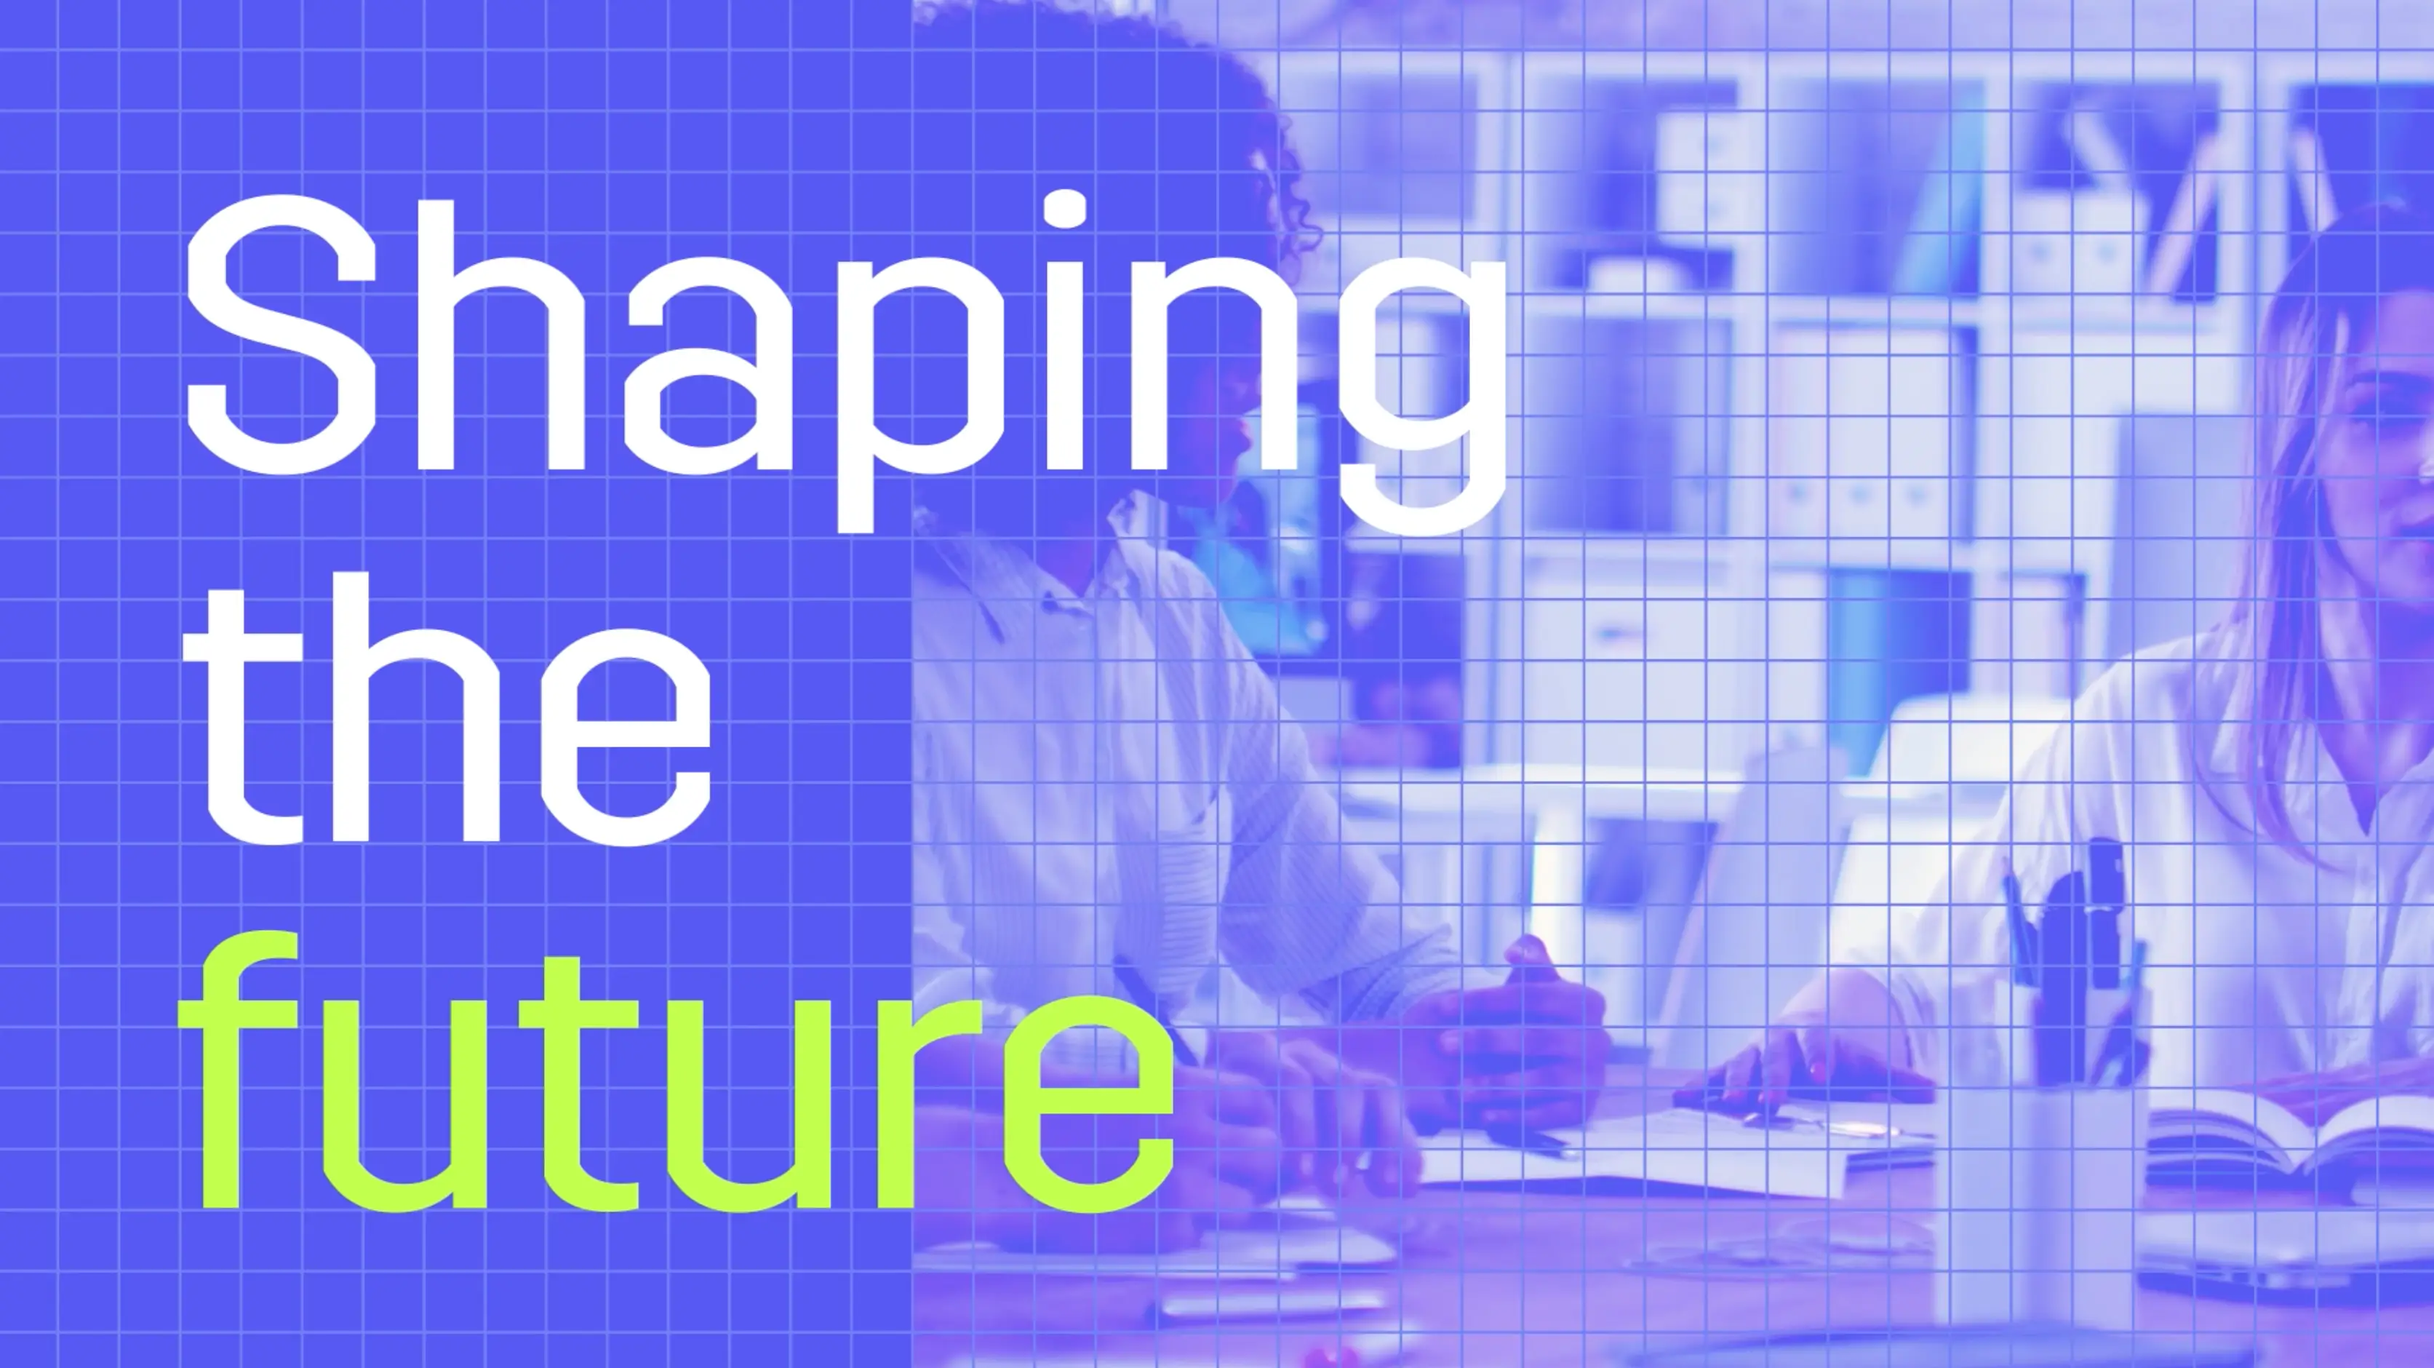
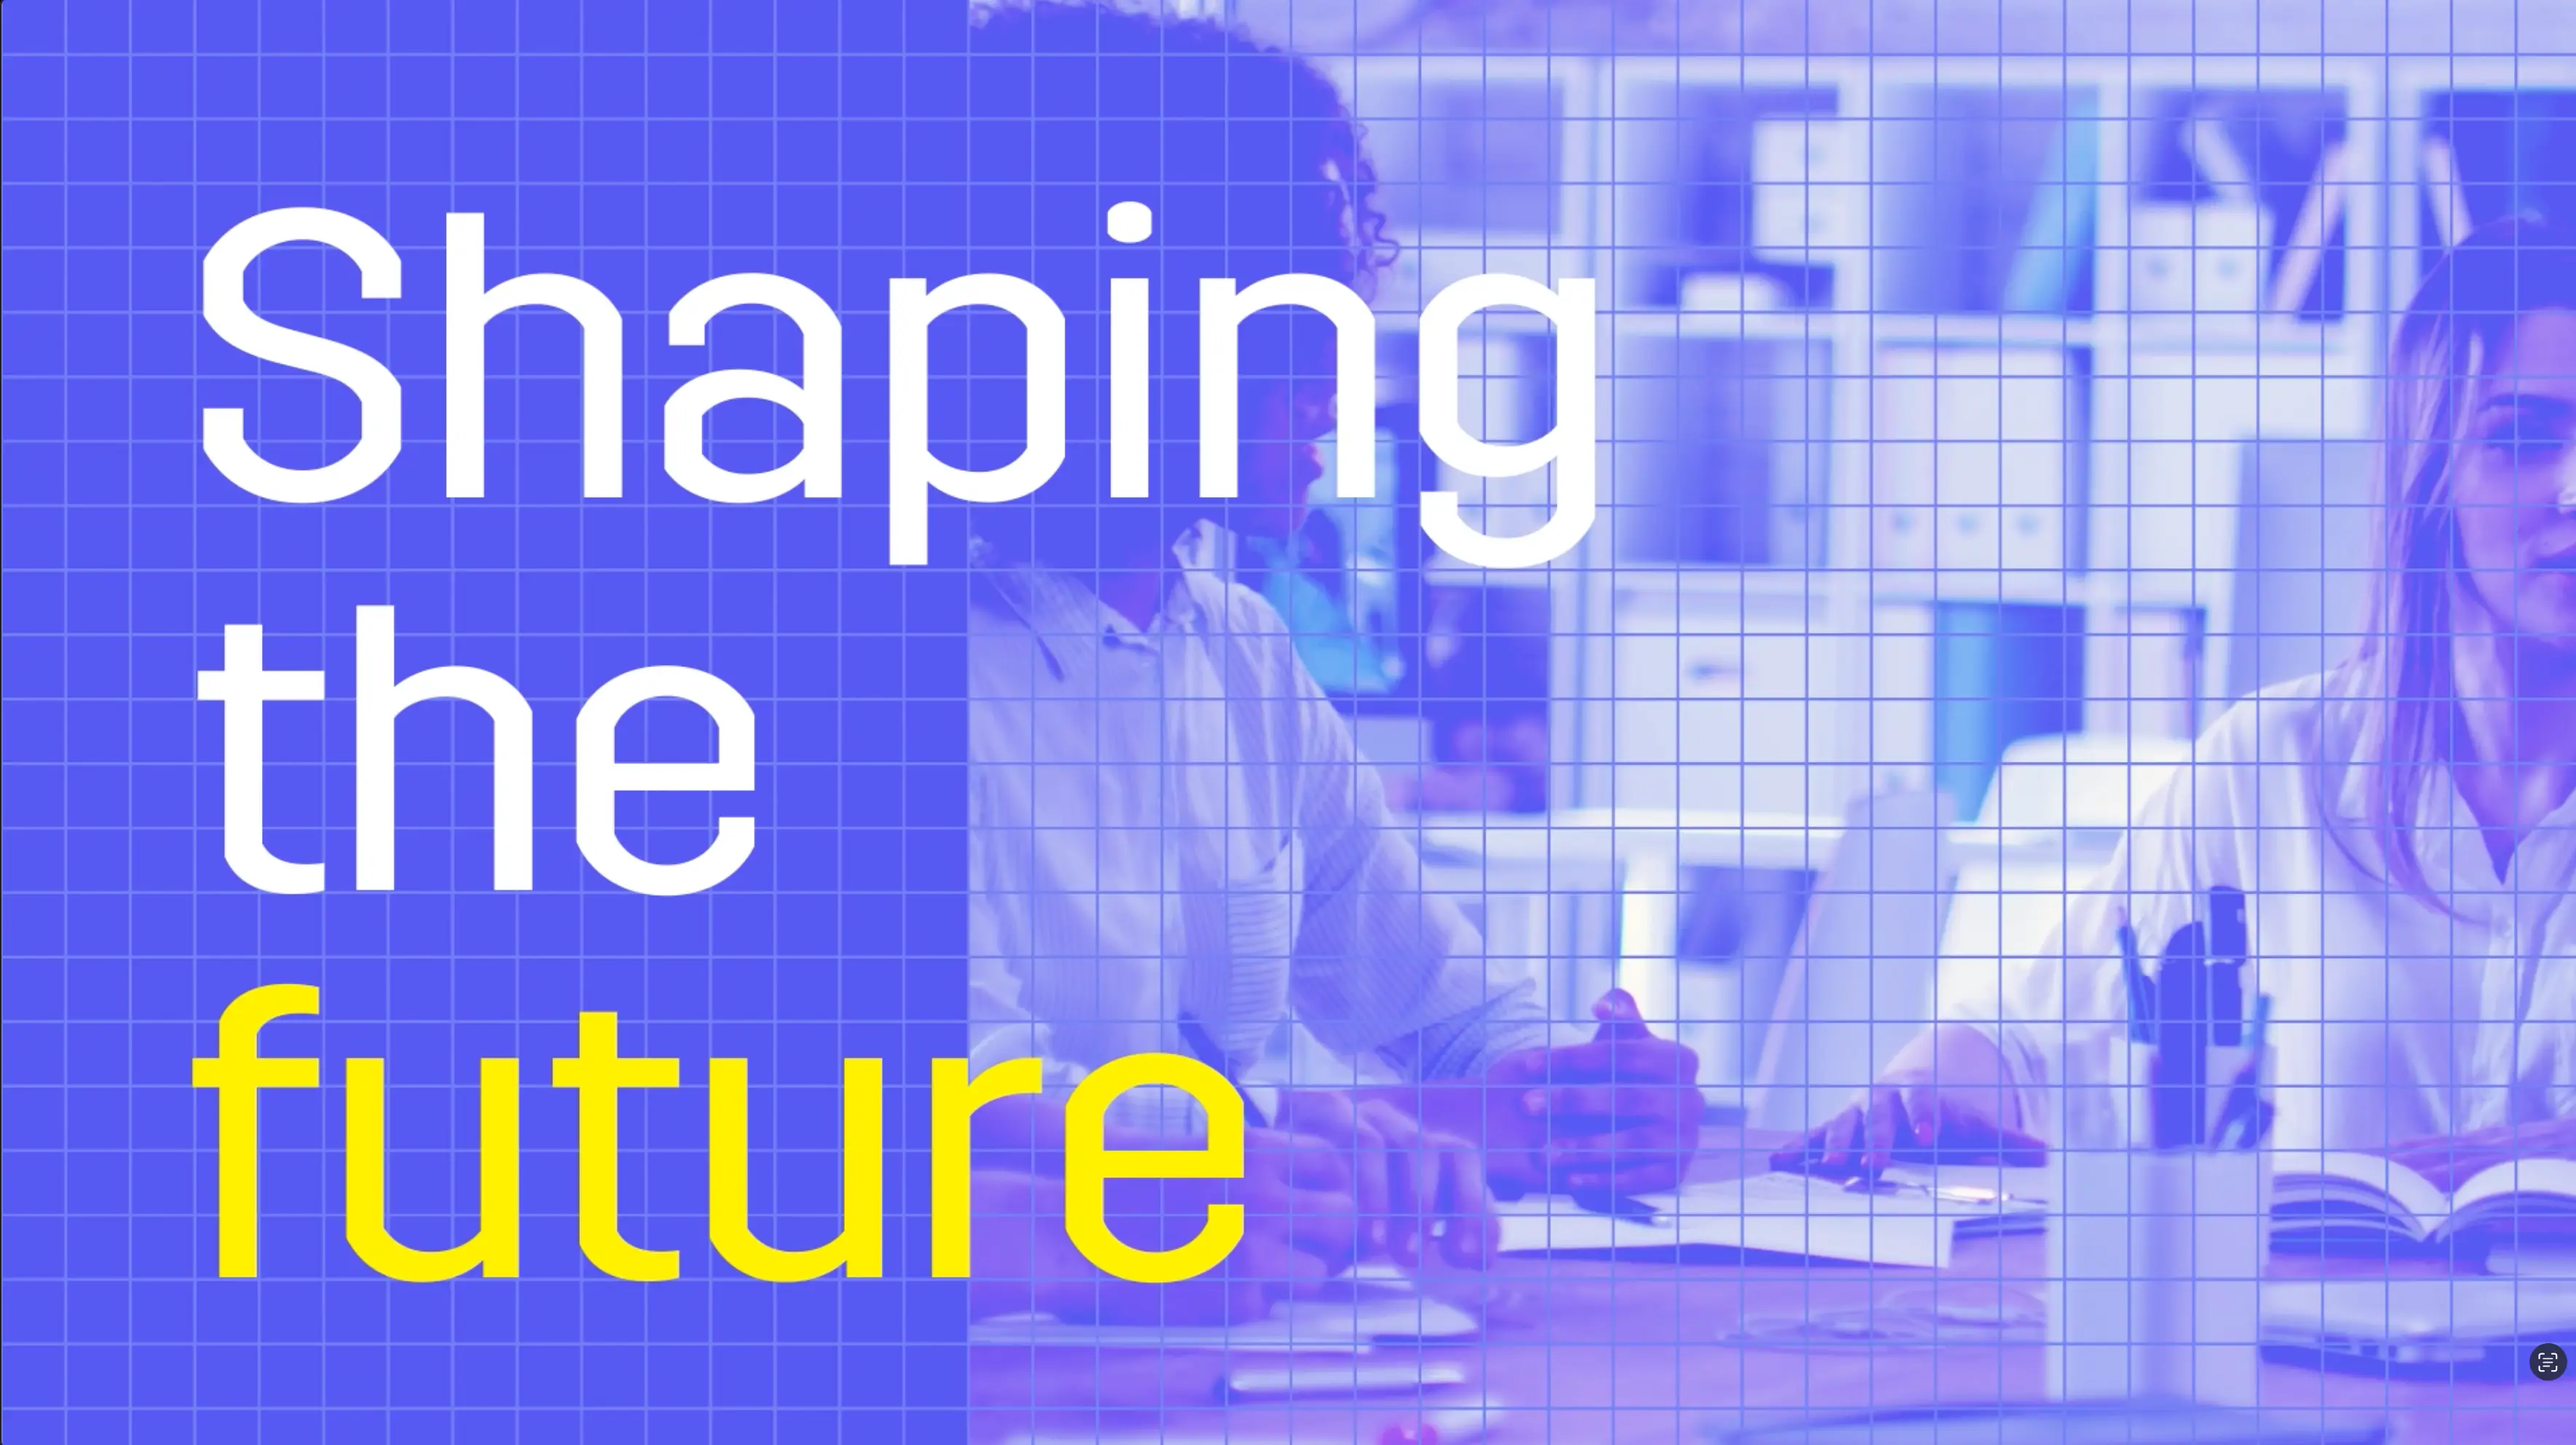
Upload bpc assets with yellow accents

diff --git a/content/portfolio/blueprint-collective.md b/content/portfolio/blueprint-collective.md
@@ -20,11 +20,11 @@ gallery:
   - src: "/images/portfolio/blueprint-collective/blueprint-collective-logos.webp"
     lightbox: "/images/portfolio/blueprint-collective/blueprint-collective-logos.webp"
     alt: "Blueprint Collective logos"
-  - src: "/images/portfolio/blueprint-collective/blueprint-collective-social-assets.webp"
-    lightbox: "/images/portfolio/blueprint-collective/blueprint-collective-social-assets.webp"
+  - src: "/images/portfolio/blueprint-collective/blueprint-collective-social-assets-v2.webp"
+    lightbox: "/images/portfolio/blueprint-collective/blueprint-collective-social-assets-v2.webp"
     alt: "Blueprint Collective social assets"
-  - src: "/images/portfolio/blueprint-collective/blueprint-collective-one-pager-mockup.webp"
-    lightbox: "/images/portfolio/blueprint-collective/blueprint-collective-one-pager-mockup.webp"
+  - src: "/images/portfolio/blueprint-collective/bluepinrt-collective-one-pager-mockup.webp"
+    lightbox: "/images/portfolio/blueprint-collective/bluepinrt-collective-one-pager-mockup.webp"
     alt: "Blueprint Collective One-Pager"
 overview: "Blueprint Collective is a product/subsidiary of Total Synergy, developed as a vehicle for thought leadership by their marketing team. As part of my engagement with them, I was tasked with creating the brand, as well as accompanying marketing assets."
 features:
